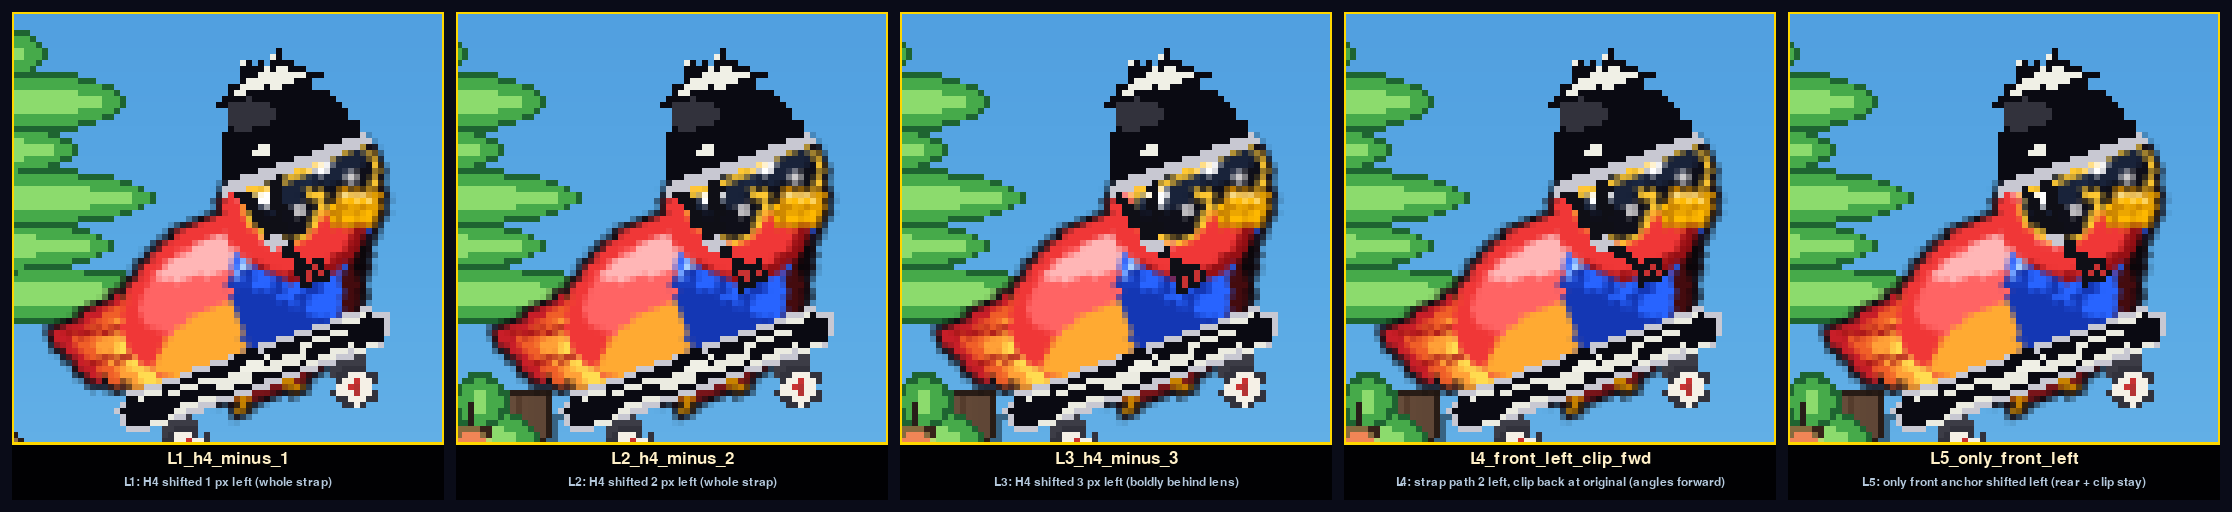
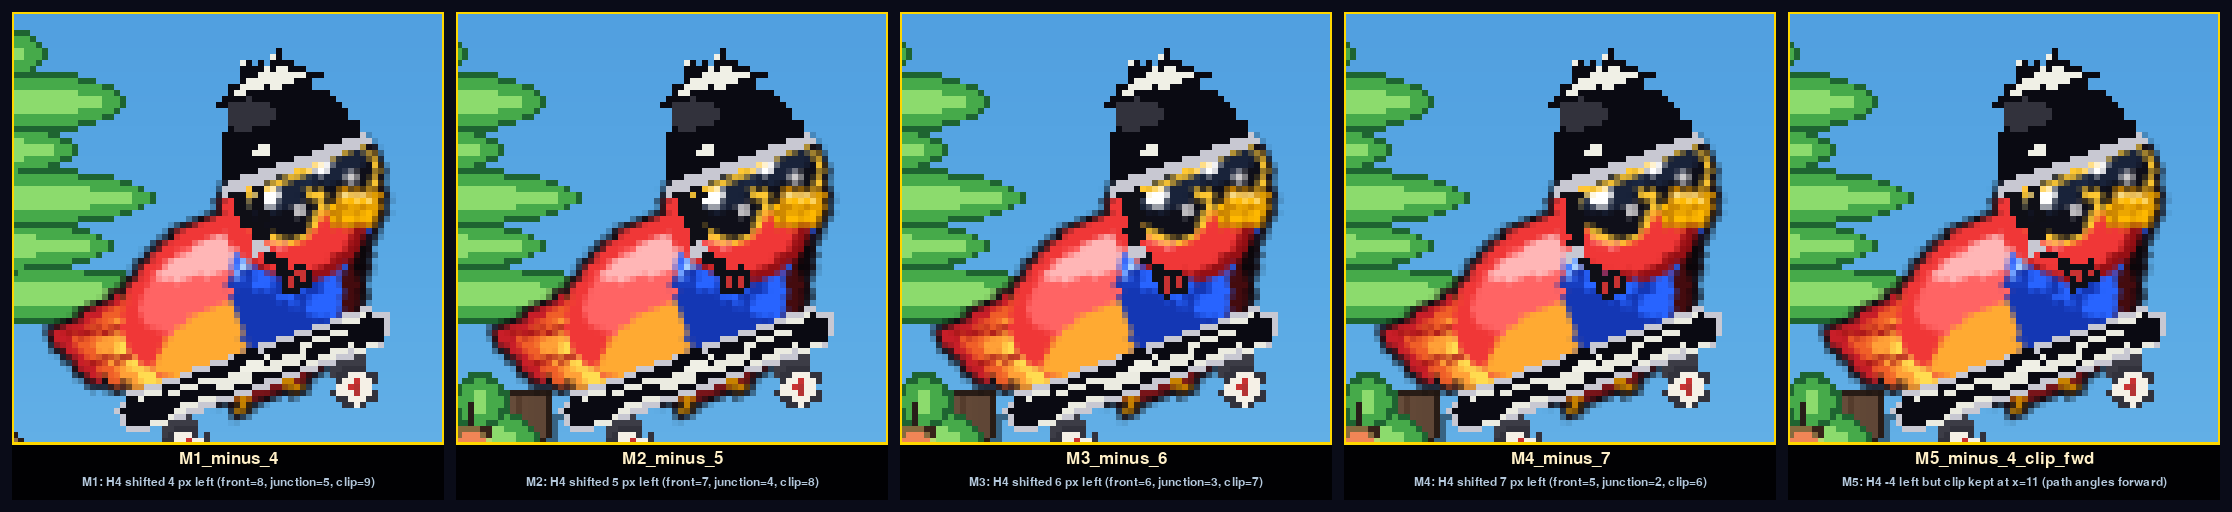
SKATEBOARD chinstrap: 5 variants shifted 4-7 px left from H4
User asked to push the whole strap path 4-7 px further left so it
sits cleanly on Pip's red feathers behind the lens. Rear anchor
clamps at the dome's left edge (x=4); front anchor, V-junction
and clip all shift freely.

  M1 — -4 px overall (front=8, junction=5, clip=9)
  M2 — -5 px overall (front=7, junction=4, clip=8)
  M3 — -6 px overall (front=6, junction=3, clip=7)
  M4 — -7 px overall (front=5, junction=2, clip=6)
  M5 — -4 left but clip kept at x=11 (path angles forward to chin)

https://claude.ai/code/session_01Ms85cBEeRiAtxZBCNh5vN5

diff --git a/tools/render_helmet_chinstrap_iterate.py b/tools/render_helmet_chinstrap_iterate.py
@@ -900,21 +900,21 @@ def _h4_variant_at(fa_x, ra_x, jx, cx):
     return fn
 
 
-# H4 used (fa=12, ra=6, jx=9, cx=13). The lens left edge is at
-# surface x=11. The user wants the strap moved left so it stays on
-# the red feathers (x ≤ 11) and never touches the lens. Five
-# progressive left shifts.
+# H4 baseline: (fa=12, ra=6, jx=9, cx=13). User wants 4-7 px further
+# left. Rear anchor clamps at x=4 (the dome's left edge); the front
+# anchor, V-junction and clip shift freely. At surface x=4-7 the
+# strap path sits cleanly on the red feather area behind the lens.
 CHINSTRAP_VARIANTS = [
-    ("L1_h4_minus_1",         _h4_variant_at(fa_x=11, ra_x=5, jx=8, cx=12),
-     "L1: H4 shifted 1 px left (whole strap)"),
-    ("L2_h4_minus_2",         _h4_variant_at(fa_x=10, ra_x=4, jx=7, cx=11),
-     "L2: H4 shifted 2 px left (whole strap)"),
-    ("L3_h4_minus_3",         _h4_variant_at(fa_x=9,  ra_x=3, jx=6, cx=10),
-     "L3: H4 shifted 3 px left (boldly behind lens)"),
-    ("L4_front_left_clip_fwd", _h4_variant_at(fa_x=10, ra_x=4, jx=7, cx=13),
-     "L4: strap path 2 left, clip back at original (angles forward)"),
-    ("L5_only_front_left",    _h4_variant_at(fa_x=10, ra_x=6, jx=9, cx=13),
-     "L5: only front anchor shifted left (rear + clip stay)"),
+    ("M1_minus_4",  _h4_variant_at(fa_x=8, ra_x=4, jx=5, cx=9),
+     "M1: H4 shifted 4 px left (front=8, junction=5, clip=9)"),
+    ("M2_minus_5",  _h4_variant_at(fa_x=7, ra_x=4, jx=4, cx=8),
+     "M2: H4 shifted 5 px left (front=7, junction=4, clip=8)"),
+    ("M3_minus_6",  _h4_variant_at(fa_x=6, ra_x=4, jx=3, cx=7),
+     "M3: H4 shifted 6 px left (front=6, junction=3, clip=7)"),
+    ("M4_minus_7",  _h4_variant_at(fa_x=5, ra_x=4, jx=2, cx=6),
+     "M4: H4 shifted 7 px left (front=5, junction=2, clip=6)"),
+    ("M5_minus_4_clip_fwd", _h4_variant_at(fa_x=8, ra_x=4, jx=5, cx=11),
+     "M5: H4 -4 left but clip kept at x=11 (path angles forward)"),
 ]
 
 
